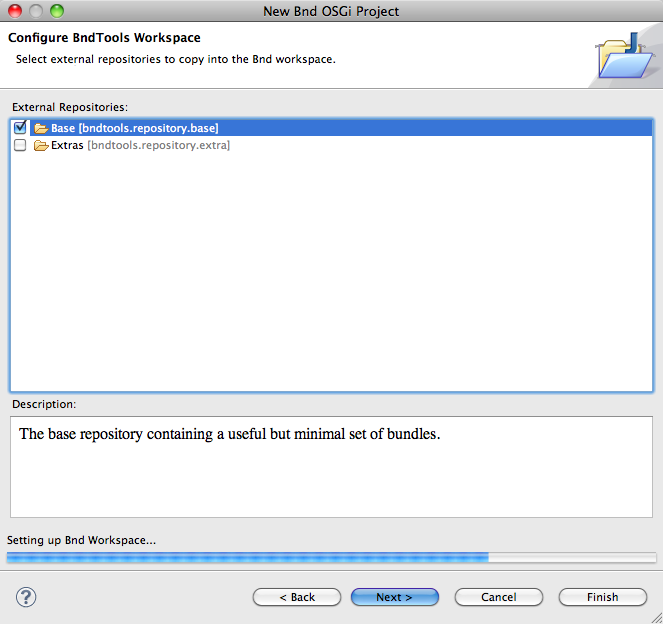
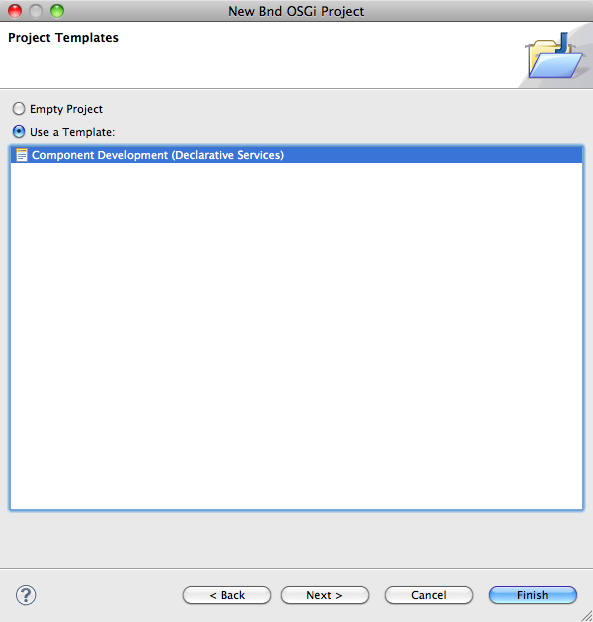
Updated bndtools tutorial

diff --git a/bndtools.html b/bndtools.html
@@ -697,7 +697,7 @@ TertiaryDark: #666
 Error: #f88
 </pre>
 </div>
-<div title="Component Tutorial" creator="Neil Bartlett" modifier="Neil Bartlett" created="201005072012" modified="201005191157" tags="excludeWikiWords" changecount="33">
+<div title="Component Tutorial" creator="Neil Bartlett" modifier="Neil Bartlett" created="201005072012" modified="201010120057" tags="excludeWikiWords" changecount="36">
 <pre>In this tutorial we will build a sample application composed of two components and an API. There will be a total of three bundles created, and in this case we will deliver all three bundles from the same bundle (see [[Using Sub-bundles]] for information on the pros and cons of delivering multiple bundles from a single project).
 
 &lt;&lt;showtoc&gt;&gt;
@@ -710,17 +710,17 @@ From the ''File'' menu, select ''New'' &gt; Bnd OSGi Project.
 
 [img[New Project Wizard|images/bndtools/newwizard_01_thumb.png]]
 
+If this is the first time you have used Bndtools, it is likely that you will see the &quot;Welcome&quot; dialog -- if so, click OK to setup the Bndtools workspace and import an initial repository.
+
+[img[Welcome to Bndtools Dialog|images/bndtools/welcome_thumb.png]]
+
 On the next page, enter {{{org.example}}} as the name of the project. Select at least J2SE-1.5 for the JRE execution environment.
 
 [img[New Project Wizard|images/bndtools/newwizard_02_thumb.png]]
 
-On the next page, you are offered a choice of static repositories to import into the workspace. These repositories host bundles that you may wish to use during development or runtime. We will use bundles from the Base repository, so leave this entry checked in the list and click Next. As this is the first time a repository has been configured, the tool will take a few seconds to copy in the contents.
+On the next page, you are offered a choice of project templates to start off your project. Select ''Use a Template'' and then choose ''Component Development'' from the list. Click Finish.
 
 [img[New Project Wizard|images/bndtools/newwizard_03_thumb.png]]
-
-The next page shows the bundles available in the workspace repository, which we can choose to add to the project build path. This is necessary if our project will use the APIs defined in those bundles. The list also contains &quot;libraries&quot;, which are aggregations of bundles that are expanded upon addition. For this tutorial, double click on the {{{lib.component-dev}}} library to add it to the right-hand list. This library contains: an annotations API that will be useful for defining components; the OSGi core and compendium APIs; and JUnit for testing.
-
-[img[New Project Wizard|images/bndtools/newwizard_04_thumb.png]]
 
 !! Points of Interest
 
